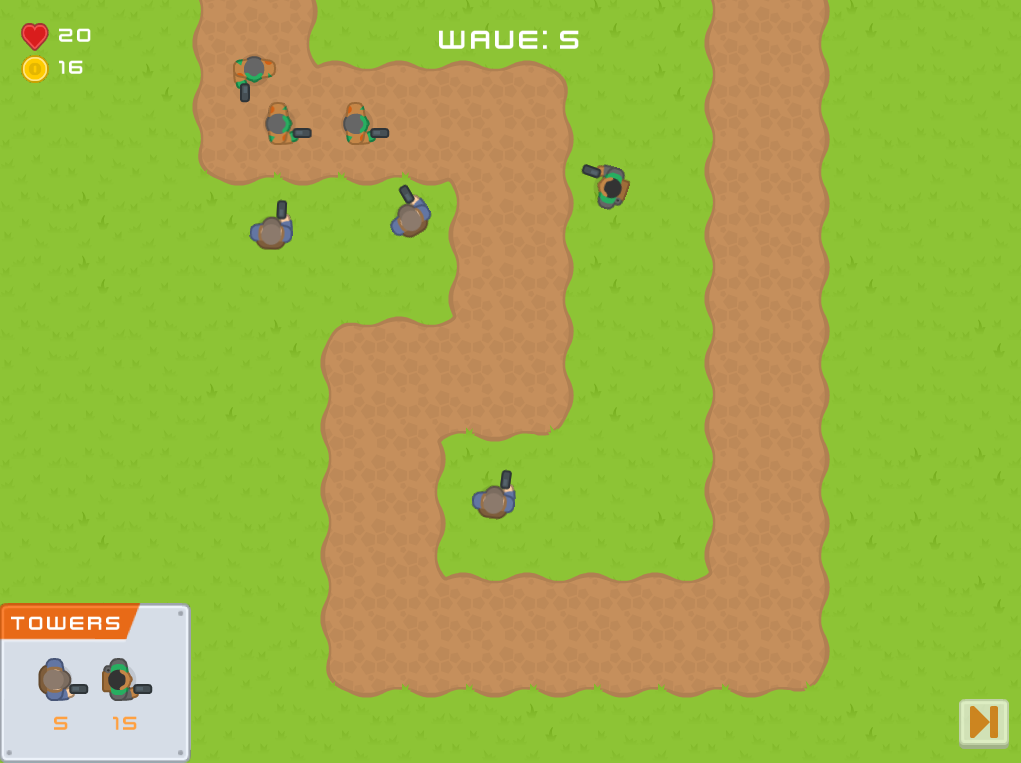
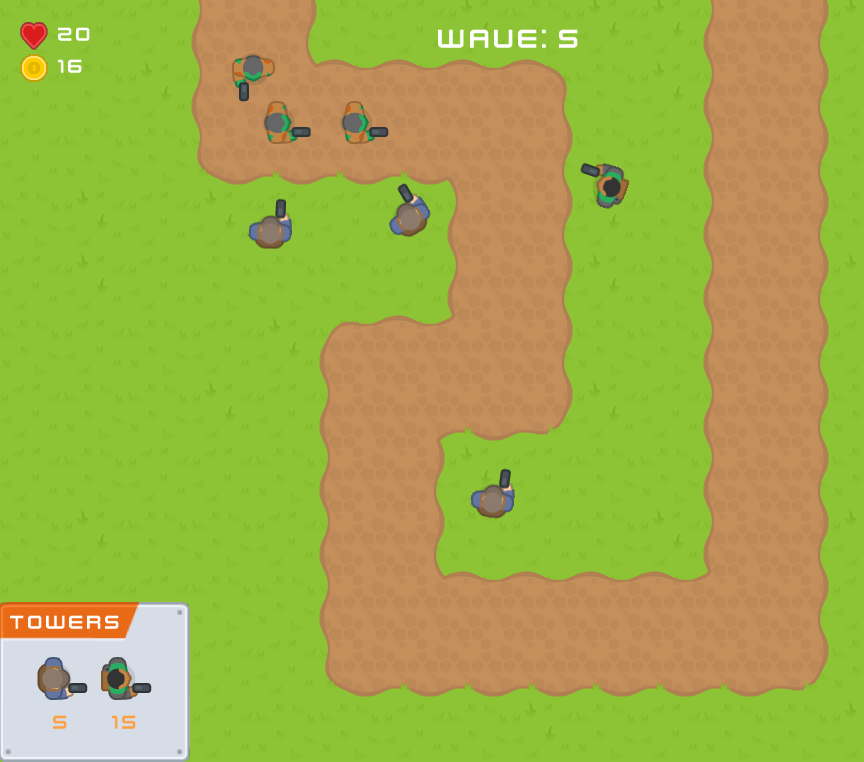
enemigos y map version 1.0

diff --git a/clases/map.cpp b/clases/map.cpp
@@ -8,7 +8,7 @@ Texture2D mapTexture;
 Rectangle mapRec;
 void mapInit()
 {
-    mapRec={0,0,static_cast<float>(GetScreenWidth()/10), static_cast<float>(GetScreenHeight())};
+    mapRec = {0,0,static_cast<float>(GetScreenWidth()/15), static_cast<float>(GetScreenHeight())};
     mapTexture = LoadTexture("resources/mapTest.png");
 
 }

diff --git a/clases/gameplayScreen.cpp b/clases/gameplayScreen.cpp
@@ -8,8 +8,8 @@
 void InitGameplayScreen() {
     framesCounter = 0;
     finishScreen = 0;
-    hudInit();
     mapInit();
+    hudInit();
 }
 
 void UpdateGameplayScreen() {
@@ -18,8 +18,8 @@ void UpdateGameplayScreen() {
 }
 
 void DrawGameplayScreen() {
-    hudDraw();
     mapDraw();
+    hudDraw();
 }
 
 
